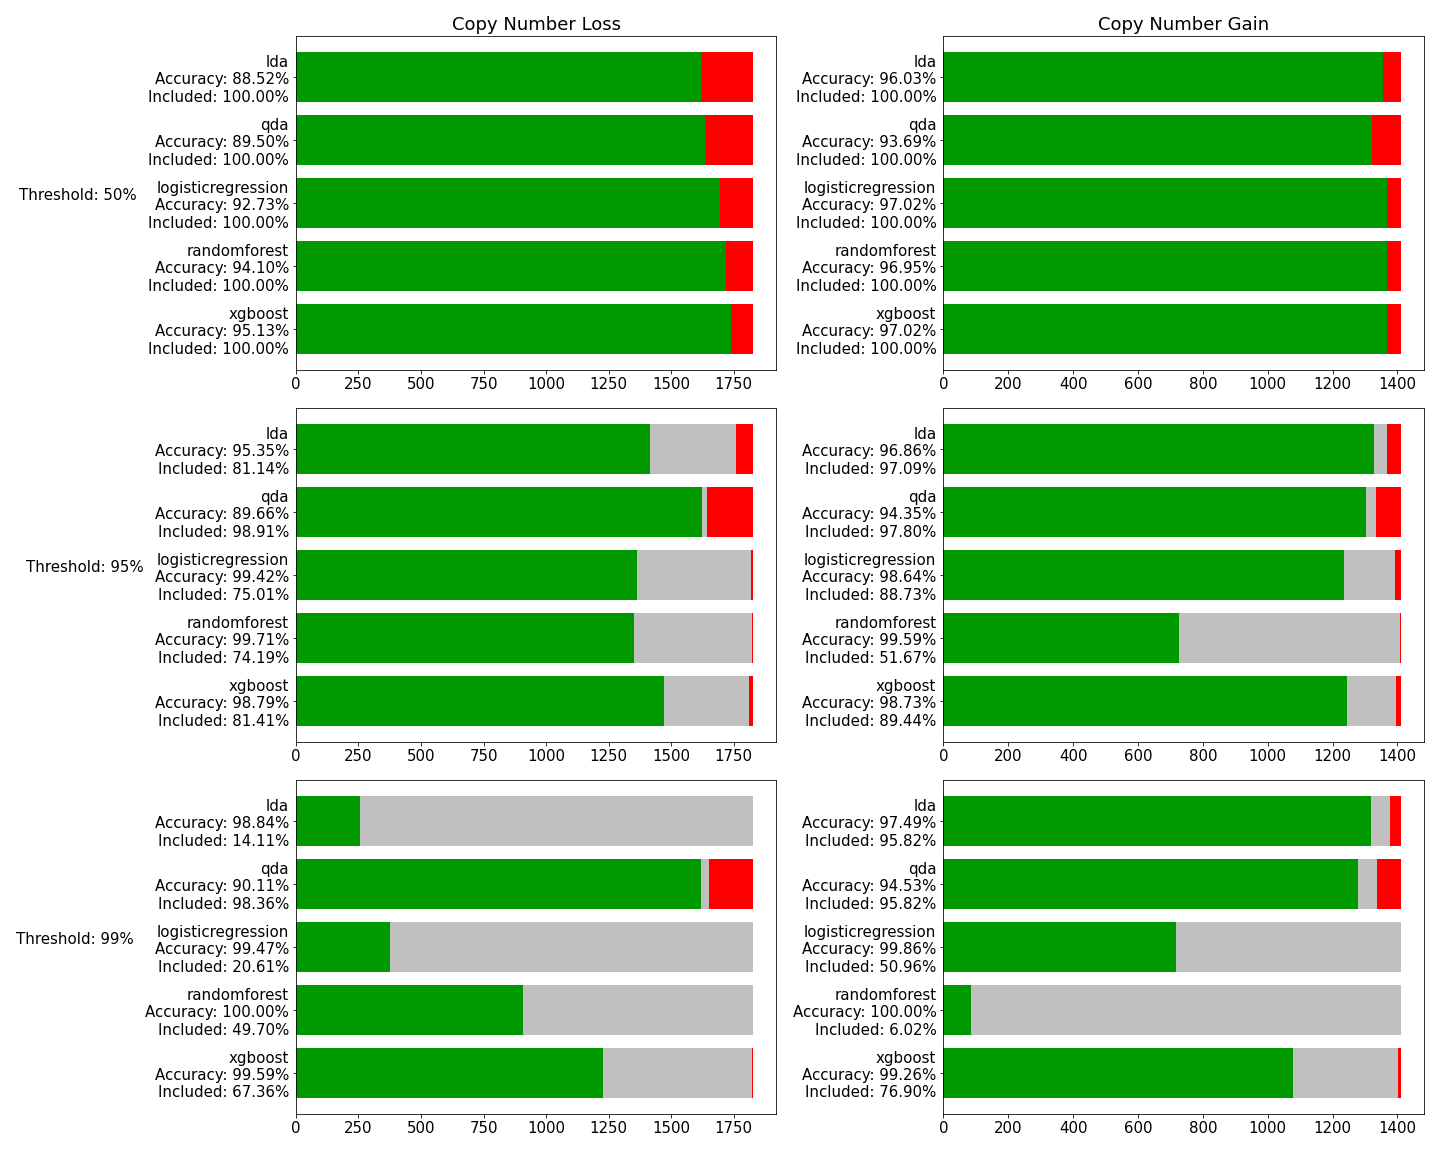
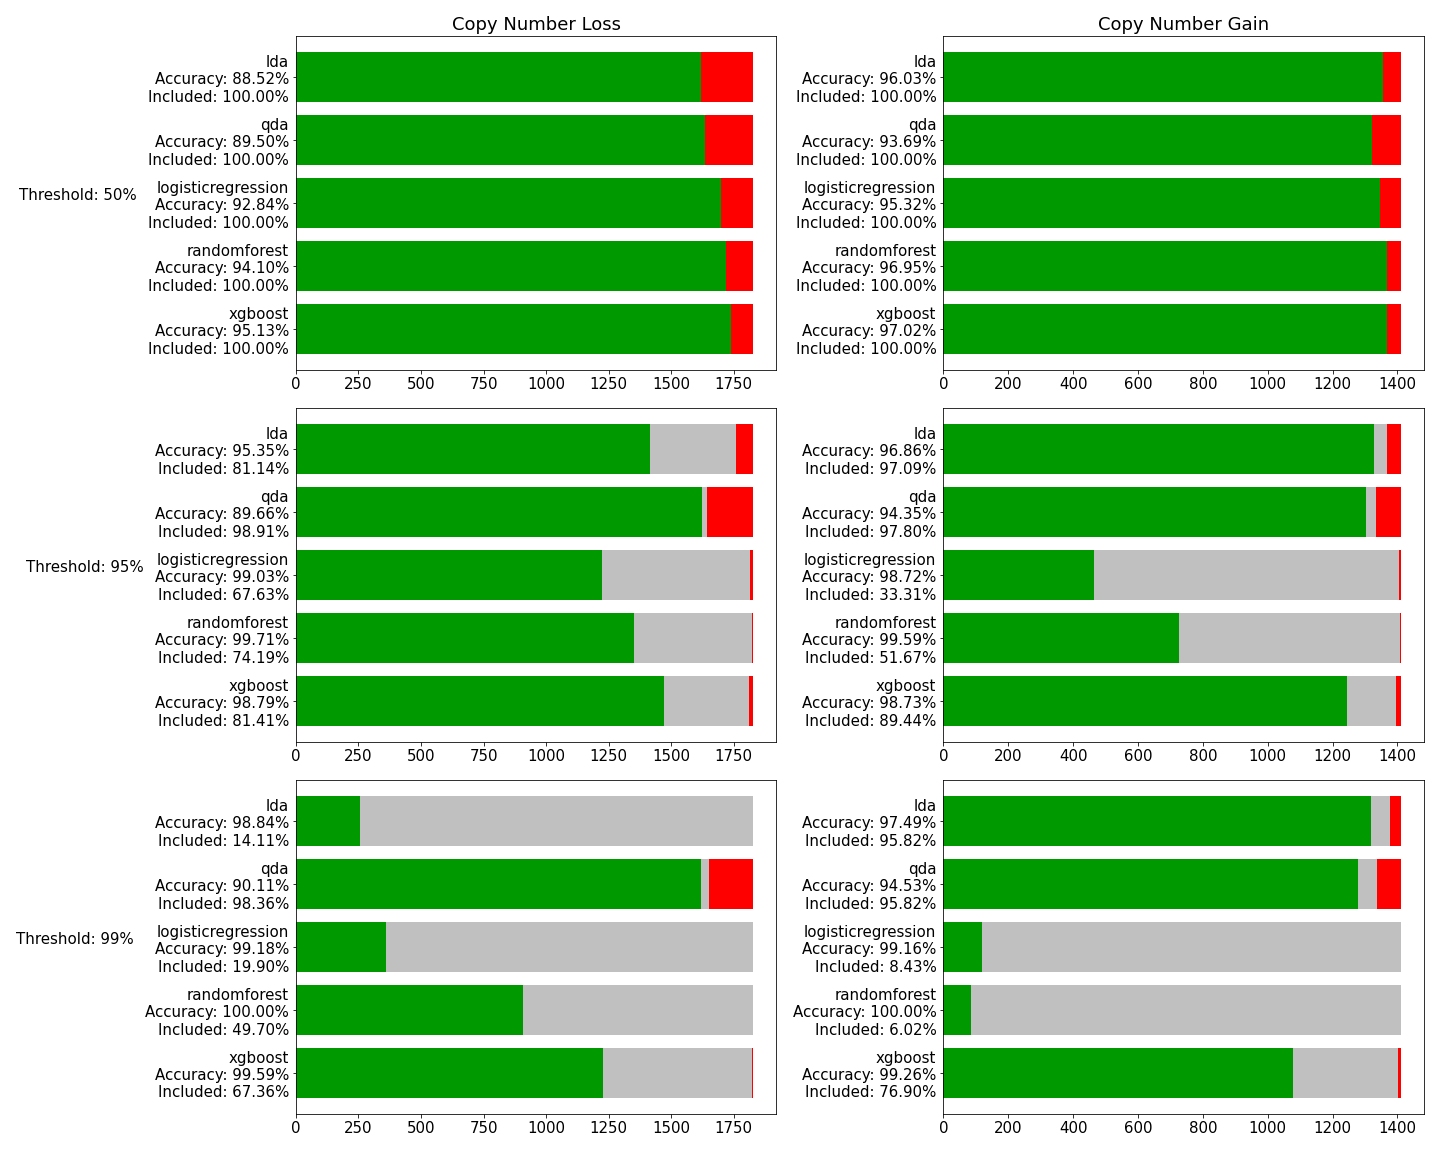
remodel logistic regression models to account for class unbalance + new bar plots

diff --git a/scripts/ml/remodel.py b/scripts/ml/remodel.py
@@ -1,7 +1,7 @@
 #!/usr/bin/env python3
 # -*- coding: utf-8 -*-
 """
-Tree methods remodellings
+Tree methods remodellings + Logistic Regression
 """
 # %%
 from scripts.ml.gridsearch import gridsearch
@@ -9,6 +9,7 @@ from scripts.ml.predict import predict
 from scripts.ml.prepare_df import prepare_df
 import xgboost as xgb
 from sklearn.ensemble import RandomForestClassifier
+from sklearn.linear_model import LogisticRegression
 from sklearn.metrics import recall_score
 import numpy as np
 from sklearn_json import to_dict, to_json
@@ -100,10 +101,38 @@ print(f'Min: {min(p)}, Max: {max(p)}')
 
 to_json(r, 'results/robust/models/randomforest_gain.json')
 
-# rd = to_dict(r)
+# %% Logistic Regression
+# p = {'penalty': 'l2',
+#      'solver': 'lbfgs',
+#      'C': 0.1,
+#      'max_iter': 500,
+#      'class_weight': None,
+#      'random_state': 1618,
+#      'n_jobs': 4}
 
-# with gzip.open('results/robust/models/randomforest_gain.json.gz', 'wt', encoding="ascii") as f:
-#     json.dump(rd, f)
+p = {'penalty': 'l2',
+     'solver': 'lbfgs',
+     'C': 0.01,
+     'max_iter': 500,
+     'class_weight': 'balanced',
+     'random_state': 1618,
+     'n_jobs': 4}
+
+r = LogisticRegression()
+r.set_params(**p)
+r.fit(train_X, train_Y)
+
+tyh = r.predict(train_X)
+yh = r.predict(val_X)
+p = r.predict_proba(val_X)[:, 1]
+
+print('Train Accuracy: ' + str(np.mean(tyh == train_Y)))
+print('Valid Accuracy: ' + str(np.mean(yh == val_Y)))
+print('Sensitivity   : ' + str(recall_score(val_Y, yh)))
+print('Specificity   : ' + str(recall_score(1 - val_Y, 1 - yh)))
+print(f'Min: {min(p)}, Max: {max(p)}')
+
+to_json(r, 'results/robust/models/logisticregression_gain.json')
 
 # %%
 ########
@@ -189,7 +218,35 @@ print(f'Min: {min(p)}, Max: {max(p)}')
 
 to_json(r, 'results/robust/models/randomforest_loss.json')
 
-# rd = to_dict(r)
+# %% Logistic Regression
+# p = {'penalty': 'l2',
+#      'solver': 'lbfgs',
+#      'C': 0.01,
+#      'max_iter': 500,
+#      'class_weight': 'balanced',
+#      'random_state': 1618,
+#      'n_jobs': 4}
 
-# with gzip.open('results/robust/models/randomforest_loss.json.gz', 'wt', encoding="ascii") as f:
-#     json.dump(rd, f)
+p = {'penalty': 'l2',
+     'solver': 'lbfgs',
+     'C': 0.1,
+     'max_iter': 500,
+     'class_weight': 'balanced',
+     'random_state': 1618,
+     'n_jobs': 4}
+
+r = LogisticRegression()
+r.set_params(**p)
+r.fit(train_X, train_Y)
+
+tyh = r.predict(train_X)
+yh = r.predict(val_X)
+p = r.predict_proba(val_X)[:, 1]
+
+print('Train Accuracy: ' + str(np.mean(tyh == train_Y)))
+print('Valid Accuracy: ' + str(np.mean(yh == val_Y)))
+print('Sensitivity   : ' + str(recall_score(val_Y, yh)))
+print('Specificity   : ' + str(recall_score(1 - val_Y, 1 - yh)))
+print(f'Min: {min(p)}, Max: {max(p)}')
+
+to_json(r, 'results/robust/models/logisticregression_loss.json')

diff --git a/scripts/ml/remodel_log.py b/scripts/ml/remodel_log.py
@@ -9,6 +9,7 @@ from scripts.ml.predict import predict
 from scripts.ml.prepare_df import prepare_df
 import xgboost as xgb
 from sklearn.ensemble import RandomForestClassifier
+from sklearn.linear_model import LogisticRegression
 from sklearn.metrics import recall_score
 import numpy as np
 from sklearn_json import to_dict, to_json
@@ -100,6 +101,38 @@ print(f'Min: {min(p)}, Max: {max(p)}')
 
 to_json(r, 'results/robust/models_log/randomforest_gain_log.json')
 
+# %% Logistic Regression
+# p = {'penalty': 'l2', 
+#      'solver': 'lbfgs',
+#      'C': 1,
+#      'max_iter': 500,
+#      'class_weight': None,
+#      'random_state': 1618,
+#      'n_jobs': 4}
+
+p = {'penalty': 'l2', 
+     'solver': 'lbfgs',
+     'C': 0.1,
+     'max_iter': 500,
+     'class_weight': 'balanced',
+     'random_state': 1618,
+     'n_jobs': 4}
+
+r = LogisticRegression()
+r.set_params(**p)
+r.fit(train_X, train_Y)
+
+tyh = r.predict(train_X)
+yh = r.predict(val_X)
+p = r.predict_proba(val_X)[:, 1]
+
+print('Train Accuracy: ' + str(np.mean(tyh == train_Y)))
+print('Valid Accuracy: ' + str(np.mean(yh == val_Y)))
+print('Sensitivity   : ' + str(recall_score(val_Y, yh)))
+print('Specificity   : ' + str(recall_score(1 - val_Y, 1 - yh)))
+print(f'Min: {min(p)}, Max: {max(p)}')
+
+to_json(r, 'results/robust/models_log/logisticregression_gain_log.json')
 
 # %%
 ########
@@ -184,3 +217,36 @@ print('Specificity   : ' + str(recall_score(1 - val_Y, 1 - yh)))
 print(f'Min: {min(p)}, Max: {max(p)}')
 
 to_json(r, 'results/robust/models_log/randomforest_loss_log.json')
+
+# %% Logistic Regression
+# p = {'penalty': 'l2',
+#      'solver': 'liblinear',
+#      'C': 10,
+#      'max_iter': 500,
+#      'class_weight': None,
+#      'random_state': 1618,
+#      'n_jobs': 4}
+
+p = {'penalty': 'l2',
+     'solver': 'lbfgs',
+     'C': 10,
+     'max_iter': 500,
+     'class_weight': 'balanced',
+     'random_state': 1618,
+     'n_jobs': 4}
+
+r = LogisticRegression()
+r.set_params(**p)
+r.fit(train_X, train_Y)
+
+tyh = r.predict(train_X)
+yh = r.predict(val_X)
+p = r.predict_proba(val_X)[:, 1]
+
+print('Train Accuracy: ' + str(np.mean(tyh == train_Y)))
+print('Valid Accuracy: ' + str(np.mean(yh == val_Y)))
+print('Sensitivity   : ' + str(recall_score(val_Y, yh)))
+print('Specificity   : ' + str(recall_score(1 - val_Y, 1 - yh)))
+print(f'Min: {min(p)}, Max: {max(p)}')
+
+to_json(r, 'results/robust/models_log/logisticregression_loss_log.json')

diff --git a/scripts/plots/bars.py b/scripts/plots/bars.py
@@ -43,3 +43,35 @@ fig.tight_layout()
 
 
 fig.savefig('plots/model_bars.png')
+
+# %%
+models  = ['lda', 'qda', 'logisticregression', 'randomforest', 'xgboost']
+cnv_type = ['loss', 'gain']
+
+
+fig, ax = plt.subplots(3, 2, figsize=(20, 16))
+
+for i, threshold in enumerate([0.5, 0.95, 0.99]):
+    for j, cnv_type in enumerate(['loss', 'gain']):
+        results = {'label': [], 'correct': [], 'uncertain': [], 'incorrect': []}
+            
+        for model in models:
+            results = bar_update_results(results, f'results/robust/models_log/{model}_{cnv_type}_log.json', f'data/validation_{cnv_type}.tsv.gz', threshold)
+        
+        res = pd.DataFrame(results)
+        res.iloc[::-1].set_index('label').plot(kind='barh', stacked=True, ax=ax[i, j], width=0.8,
+                                               color=["#009900", "#C0C0C0", "#FF0000"])
+        ax[i, j].get_legend().remove()
+        ax[i, j].set_ylabel('')
+
+ax[0, 0].set_title('Copy Number Loss')
+ax[0, 1].set_title('Copy Number Gain')
+
+ax[0, 0].set_ylabel('Threshold: 50%', rotation=0, labelpad=70)
+ax[1, 0].set_ylabel('Threshold: 95%', rotation=0, labelpad=70)
+ax[2, 0].set_ylabel('Threshold: 99%', rotation=0, labelpad=70)
+
+fig.suptitle('Log Transformed', fontsize=20)
+fig.tight_layout()
+
+fig.savefig('plots/model_bars_logtransformed.png')
